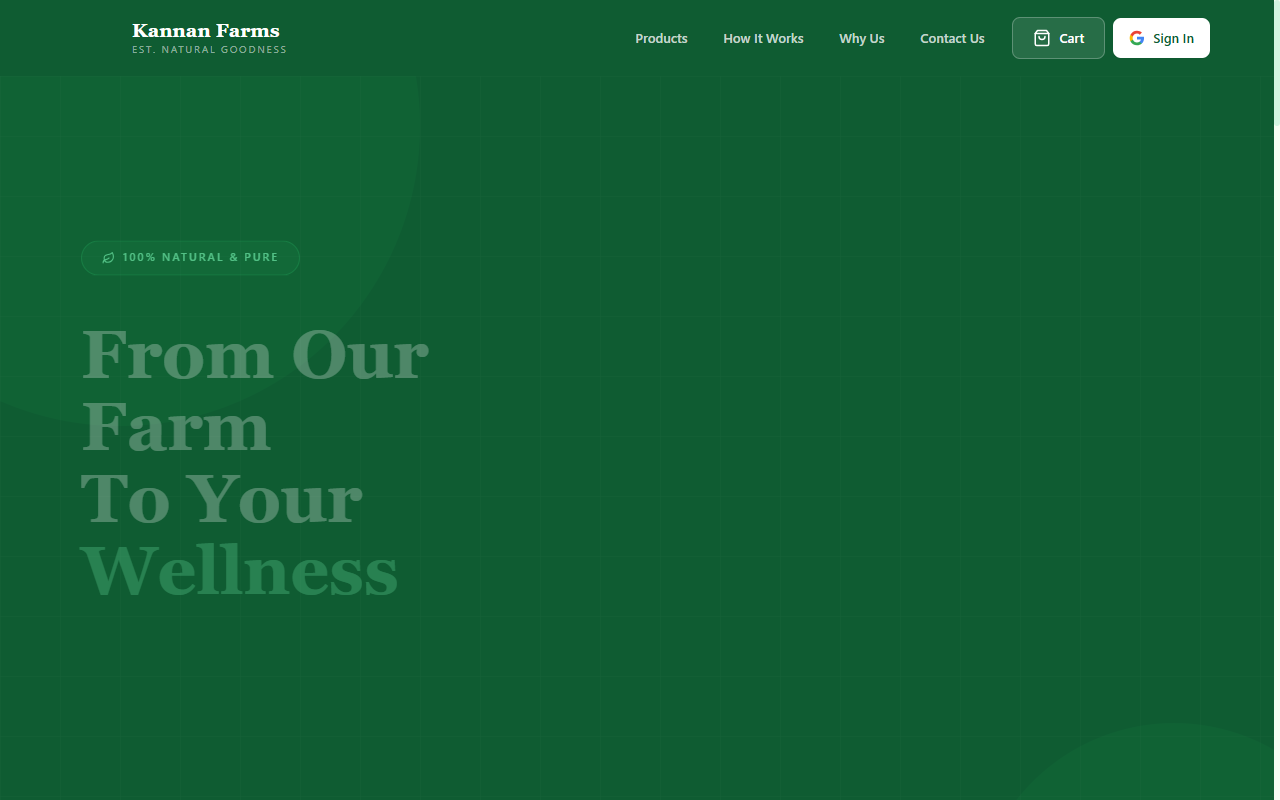
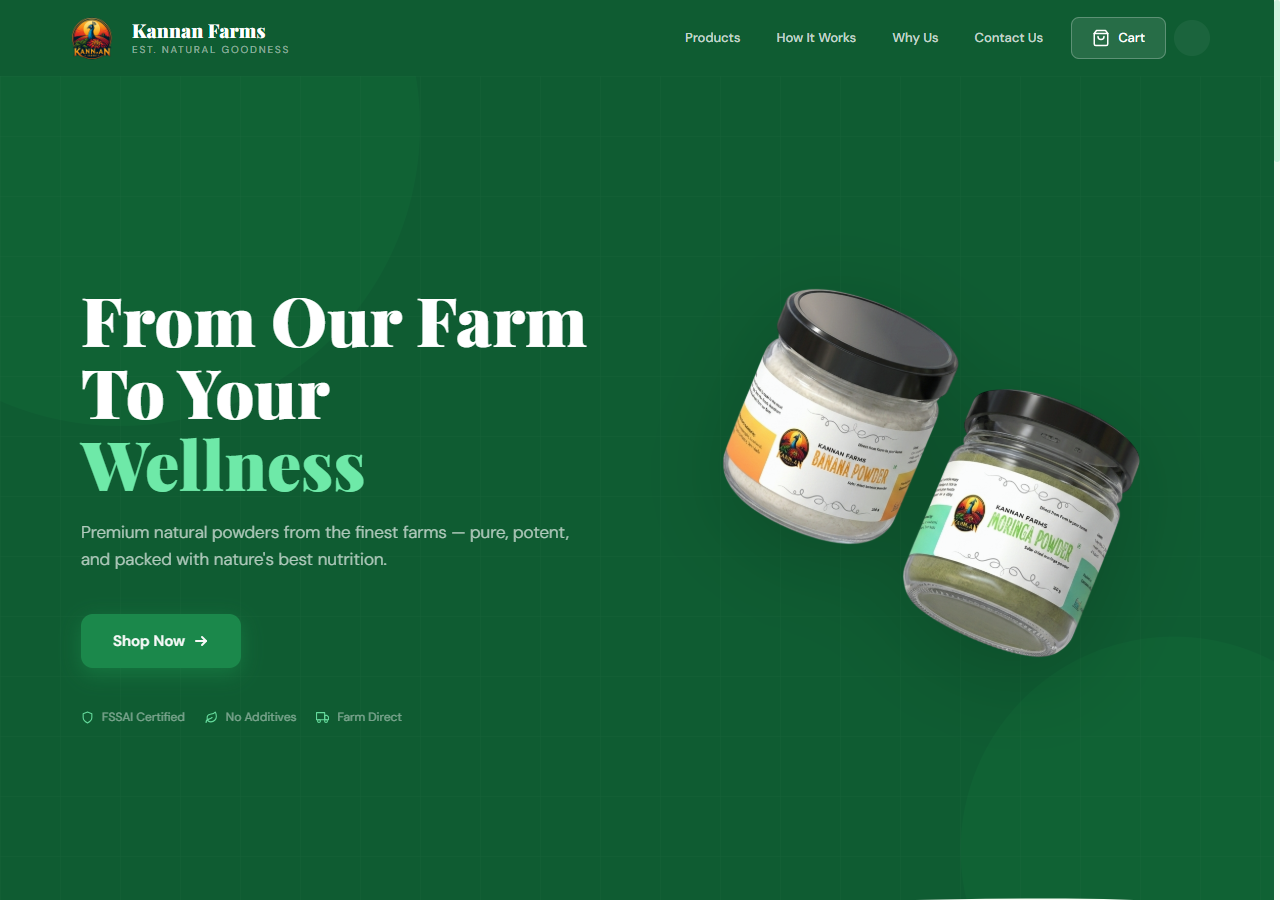
feat: add Kannan Farms 3D packaging mockup and live storefront screenshot

diff --git a/src/components/Experience.tsx b/src/components/Experience.tsx
@@ -274,25 +274,52 @@ export const Experience: React.FC = () => {
                                 </ul>
                               </div>
 
-                              {/* High-Fidelity Screenshot Display with Ken Burns Zoom */}
-                              <div className="space-y-2">
-                                <div className="font-mono text-[11px] uppercase tracking-wider text-slate-500 dark:text-slate-400 font-semibold">
-                                  Production Interface Screenshot
+                              {/* High-Fidelity Visual Artifacts (Storefront & Product Mockup) */}
+                              <div className="space-y-3">
+                                <div className="font-mono text-[11px] uppercase tracking-wider text-slate-500 dark:text-slate-400 font-semibold flex items-center gap-2">
+                                  <span>Visual Artifacts &amp; Production Deployments</span>
+                                  {exp.caseStudy.mockupImage && (
+                                    <span className="text-[10px] px-2 py-0.5 rounded bg-emerald-500/10 text-emerald-600 dark:text-emerald-400 border border-emerald-500/20 font-mono">
+                                      Storefront + 3D Mockup
+                                    </span>
+                                  )}
                                 </div>
-                                <figure className="relative rounded-lg border border-slate-300 dark:border-slate-700/80 overflow-hidden bg-slate-900 group/img shadow-md dark:shadow-glow-sm">
-                                  <div className="aspect-16/10 overflow-hidden">
-                                    <img
-                                      src={exp.caseStudy.screenshot}
-                                      alt={exp.caseStudy.screenshotAlt}
-                                      loading="lazy"
-                                      className="w-full h-full object-cover object-top transition-transform duration-700 ease-out group-hover/img:scale-105"
-                                    />
-                                  </div>
-                                  <figcaption className="p-3 bg-slate-900/90 dark:bg-[#0B0F1A]/95 backdrop-blur-xs border-t border-slate-800 text-[11px] font-mono text-slate-300 flex items-center justify-between">
-                                    <span>{exp.caseStudy.screenshotCaption}</span>
-                                    <span className="text-blue-400 text-[10px] hidden sm:inline">HIGH RESOLUTION VIEW</span>
-                                  </figcaption>
-                                </figure>
+
+                                <div className={`grid gap-4 ${exp.caseStudy.mockupImage ? 'grid-cols-1 lg:grid-cols-2' : 'grid-cols-1'}`}>
+                                  {/* Live Screenshot */}
+                                  <figure className="relative rounded-lg border border-slate-300 dark:border-slate-700/80 overflow-hidden bg-slate-900 group/img shadow-md dark:shadow-glow-sm flex flex-col">
+                                    <div className="aspect-16/10 overflow-hidden bg-slate-950 flex items-center justify-center">
+                                      <img
+                                        src={exp.caseStudy.screenshot}
+                                        alt={exp.caseStudy.screenshotAlt}
+                                        loading="lazy"
+                                        className="w-full h-full object-cover object-top transition-transform duration-700 ease-out group-hover/img:scale-105"
+                                      />
+                                    </div>
+                                    <figcaption className="p-3 bg-slate-900/90 dark:bg-[#0B0F1A]/95 backdrop-blur-xs border-t border-slate-800 text-[11px] font-mono text-slate-300 flex items-center justify-between mt-auto">
+                                      <span className="line-clamp-2">{exp.caseStudy.screenshotCaption}</span>
+                                      <span className="text-blue-400 text-[10px] shrink-0 ml-2 hidden sm:inline">LIVE PLATFORM</span>
+                                    </figcaption>
+                                  </figure>
+
+                                  {/* 3D Product Mockup if available */}
+                                  {exp.caseStudy.mockupImage && (
+                                    <figure className="relative rounded-lg border border-slate-300 dark:border-slate-700/80 overflow-hidden bg-slate-900 group/mockup shadow-md dark:shadow-glow-sm flex flex-col">
+                                      <div className="aspect-16/10 overflow-hidden bg-slate-950 flex items-center justify-center p-2">
+                                        <img
+                                          src={exp.caseStudy.mockupImage}
+                                          alt={exp.caseStudy.mockupCaption || "3D Product Mockup"}
+                                          loading="lazy"
+                                          className="w-full h-full object-contain transition-transform duration-700 ease-out group-hover/mockup:scale-105"
+                                        />
+                                      </div>
+                                      <figcaption className="p-3 bg-slate-900/90 dark:bg-[#0B0F1A]/95 backdrop-blur-xs border-t border-slate-800 text-[11px] font-mono text-slate-300 flex items-center justify-between mt-auto">
+                                        <span className="line-clamp-2">{exp.caseStudy.mockupCaption}</span>
+                                        <span className="text-emerald-400 text-[10px] shrink-0 ml-2 hidden sm:inline">3D PACKAGING</span>
+                                      </figcaption>
+                                    </figure>
+                                  )}
+                                </div>
                               </div>
 
                               {/* Metrics Strip */}

diff --git a/src/data/portfolioData.ts b/src/data/portfolioData.ts
@@ -112,6 +112,8 @@ export interface CaseStudy {
   screenshot: string;
   screenshotAlt: string;
   screenshotCaption: string;
+  mockupImage?: string;
+  mockupCaption?: string;
 }
 
 export interface ExperienceItem {
@@ -159,8 +161,10 @@ export const experiences: ExperienceItem[] = [
         { label: "Stack", val: "React + Firebase + Cloud Functions" }
       ],
       screenshot: `${import.meta.env.BASE_URL}screenshots/kannanfarms.png`,
-      screenshotAlt: "Kannan Farms natural products online store",
-      screenshotCaption: "Live Kannan Farms Storefront (kannanfarms.com) — Direct-to-consumer natural products platform with automated delivery logistics"
+      screenshotAlt: "Live Kannan Farms storefront with product mockups",
+      screenshotCaption: "Live Kannan Farms Storefront (kannanfarms.com) — Direct-to-consumer platform featuring live product mockups and automated delivery logistics",
+      mockupImage: `${import.meta.env.BASE_URL}screenshots/kannanfarms_mockup.png`,
+      mockupCaption: "Official Kannan Farms 3D Product Mockup — Solar-Dried Banana Powder & Moringa Powder custom jar packaging design"
     }
   },
   {
